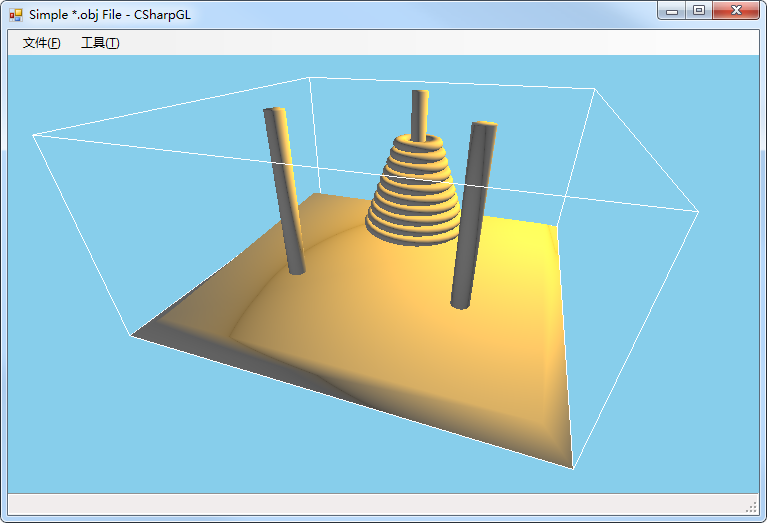
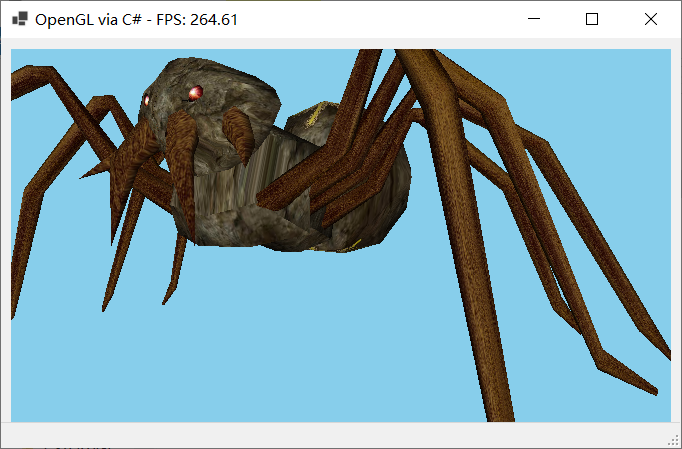
1

diff --git a/demos.anything/demoCodes/aiSceneLegacy/aiSceneLegacy_.display.cs b/demos.anything/demoCodes/aiSceneLegacy/aiSceneLegacy_.display.cs
@@ -44,7 +44,7 @@ namespace aiSceneLegacy {
 
             gl.glLoadIdentity();               // Reset MV Matrix
 
-            gl.glTranslatef(0.0f, -0.0f, -100.0f); // Move 40 Units And Into The Screen
+            gl.glTranslatef(0.0f, 10.0f, -140.0f); // Move 40 Units And Into The Screen
             gl.glRotatef(xrot, 1.0f, 0.0f, 0.0f);
             gl.glRotatef(yrot, 0.0f, 1.0f, 0.0f);
             gl.glRotatef(zrot, 0.0f, 0.0f, 1.0f);